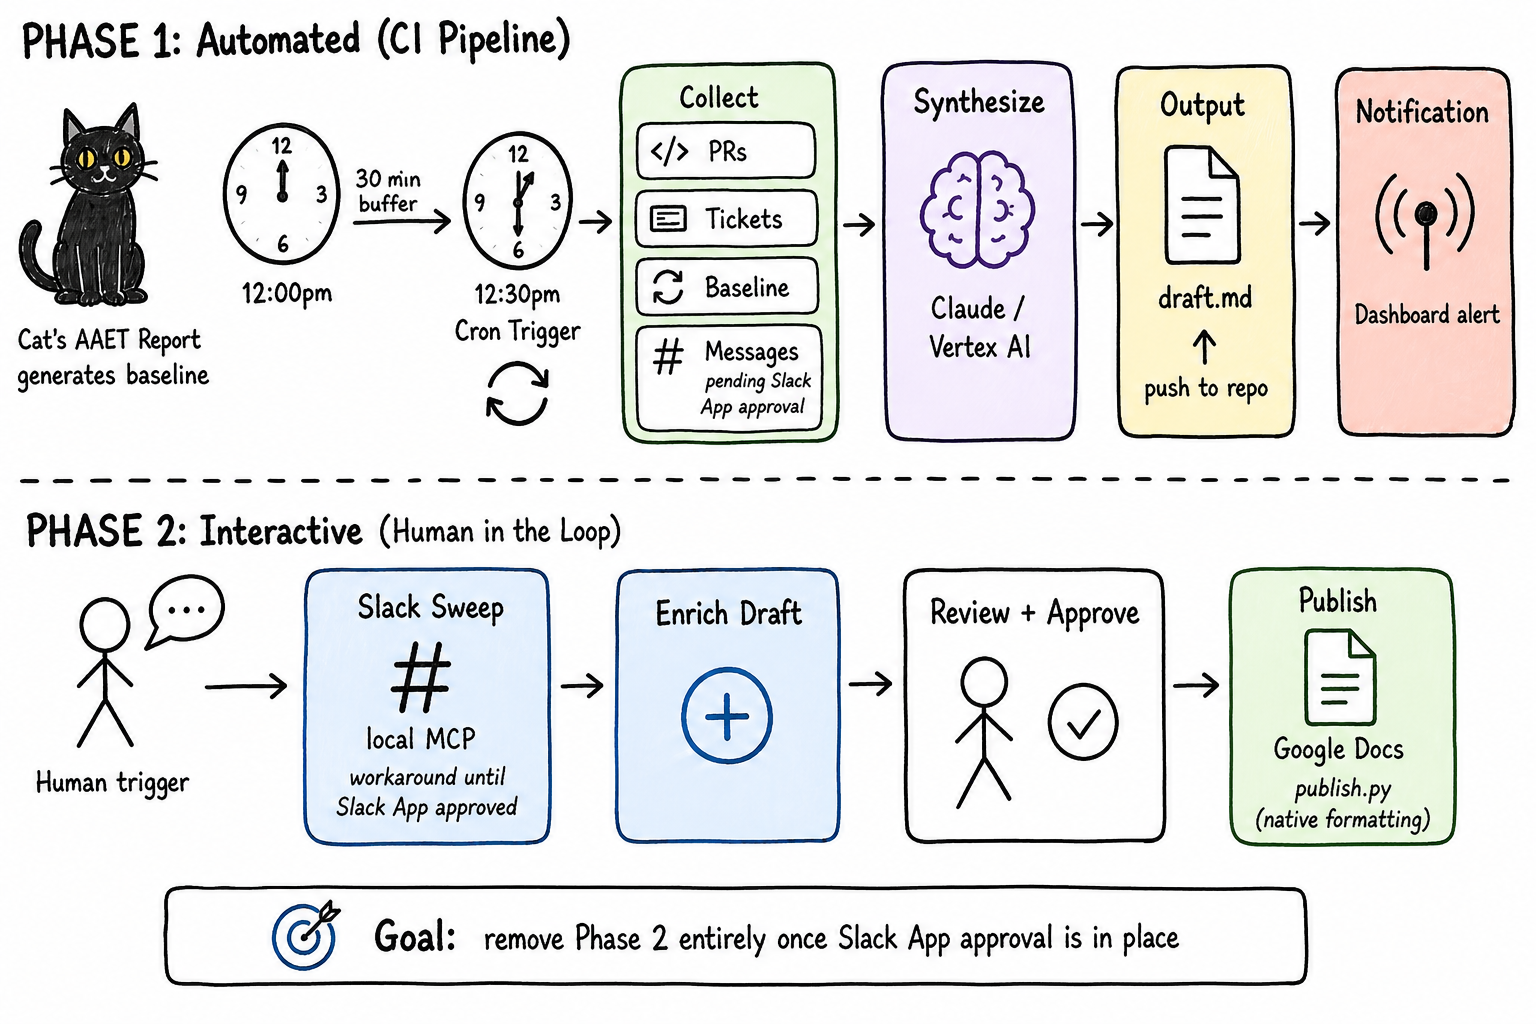
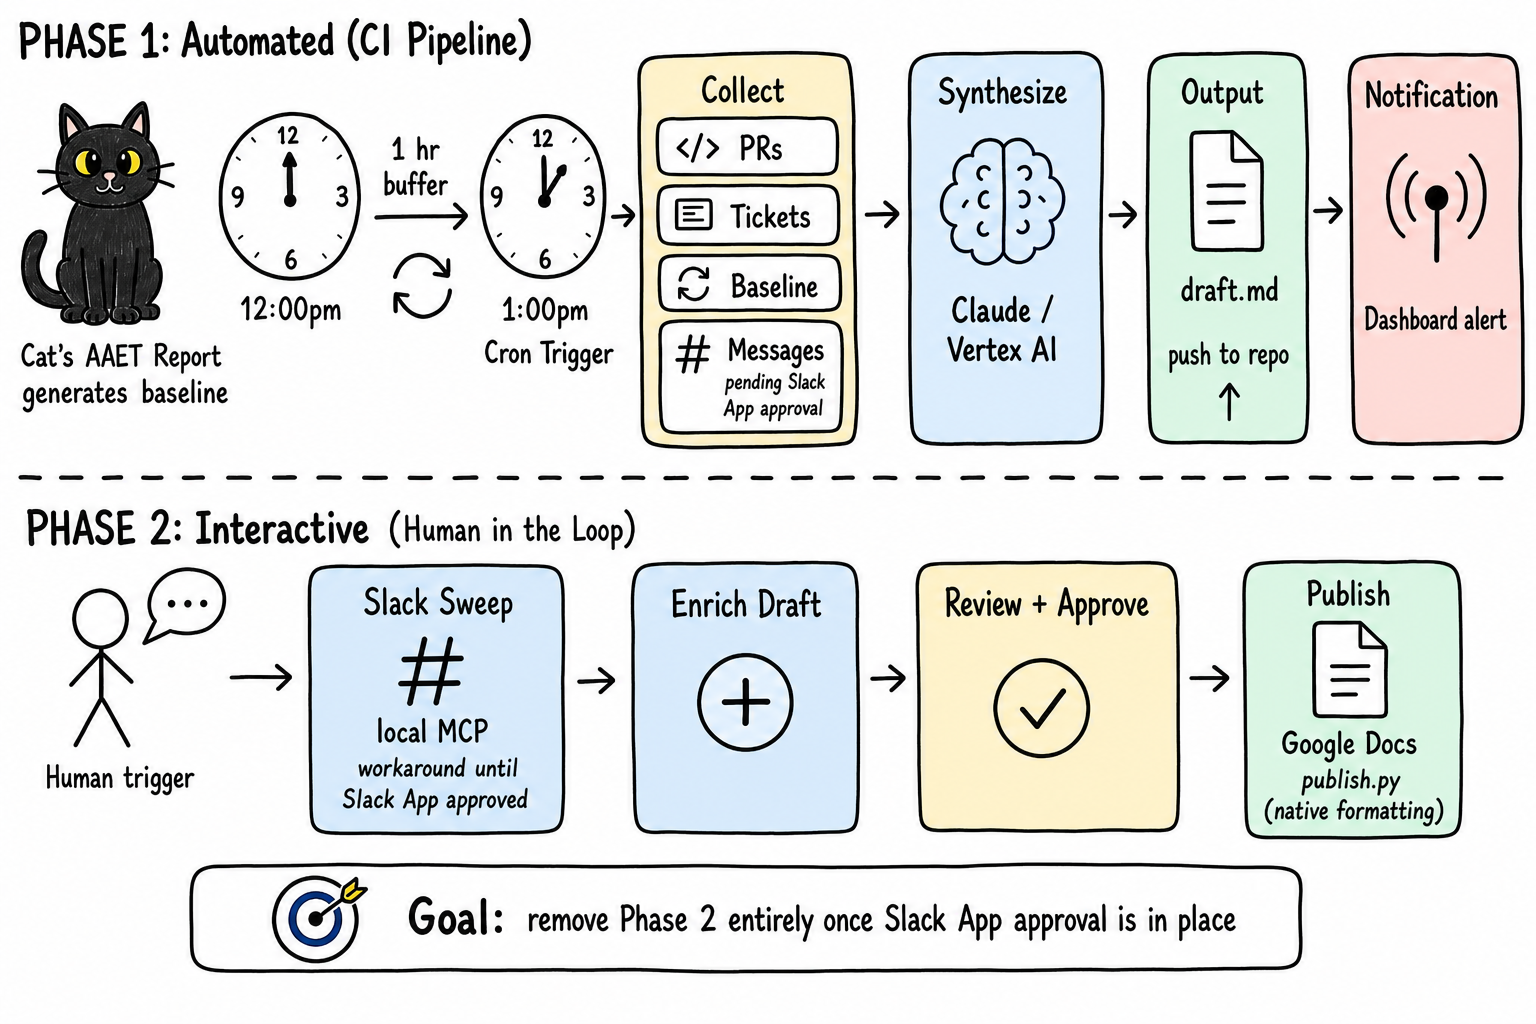
chore: shift cron trigger from 12:30pm to 1:00pm ET
The team channel notification doesn't go out until 12:30pm, so the
pipeline was racing the notification. 1hr buffer after Cat's noon
report gives a safer margin. Updated workflow cron, README text, and
regenerated the flow diagram.

diff --git a/memory.md b/memory.md
@@ -1,3 +1,30 @@
+# Weekly Pulse - Project Memory
+
+## Pipeline Architecture (READ FIRST)
+
+Human-in-the-loop pipeline with two phases in different environments:
+
+**Phase 1 - Generate (GitHub Actions, automated):**
+GH Action (Thursday cron or manual) collects Jira + GitHub + baseline
+report, synthesizes via LLM, saves draft to `output/YYYY-MM-DD/draft.md`,
+commits and uploads artifact. CI NEVER collects Slack and NEVER publishes.
+The `--skip-slack` flag is always passed.
+
+**Phase 2 - Enrich + Publish (Cursor/Argus, interactive):**
+User says "review the pulse" which triggers the `weekly-pulse-review`
+skill. Skill sweeps Slack via MCP, enriches the draft, presents for
+user approval, then publishes to Google Doc via GWS MCP.
+
+**Critical rules:**
+
+- Target Google Doc is ALWAYS discovered dynamically from the Drive
+  reports folder (`1Nfir4VgHzPSUGZBJHFRM0GPYj8k5VeHu`). Never
+  hardcode a doc ID.
+- Slack data comes from Cursor's Slack MCP, not from CI.
+- Nothing publishes without user approval.
+
+---
+
 ## 2026-06-12
 
 ### Resume
@@ -27,7 +54,7 @@ Three gaps for full automation:
 
 ### Resume
 
-CI pipeline runs green. Cron at 12:30pm ET (after Cat's noon report).
+CI pipeline runs green. Cron at 1:00pm ET (after Cat's noon report).
 4 of 5 secrets set. Dashboard notification system pulsing when draft ready.
 Output organized into date folders.
 
@@ -100,3 +127,71 @@ output looks like. `prompt.md` tuning needed.
 4. Update the README/architecture to reflect the live doc is
    `18FVFNqzjKuMUyCQXnpzWZnVKMKIlGvYLN8Tvjfd9Vvw` (DO NOT WRITE TO IT
    without explicit approval)
+
+---
+
+## 2026-06-14 - Multi-Section Routing + Native Formatting
+
+### Resume
+
+Publish pipeline rewritten. Multi-section routing, native Google Docs
+formatting, Drive folder discovery, UTF-16 link math, LLM sentiment
+emoji. All pushed to remote.
+
+### Done
+
+- Multi-section synthesis: DATA_PROCESSING, RISKS, CUSTOMERS, ASSOCIATES
+- Drive folder discovery (folder ID: 1Nfir4VgHzPSUGZBJHFRM0GPYj8k5VeHu,
+  shared drive support)
+- Native bullets (createParagraphBullets), inline hyperlinks, bold removal
+- UTF-16 offset math for emoji + link positioning
+- LLM-based sentiment emoji for Associates
+- CI cron skips publish; interactive-only via review skill
+- prompt.md tuned with quality examples and anti-patterns
+- Test doc: "Weekly Pulse - TEST" (1BLo26JCsoZSUta_KoP_BSkXZvGYyW0iO_EcJTFGkwgY)
+
+### Left Off
+
+Code pushed. Need to trigger the GitHub Action (workflow_dispatch) to
+test the full generate + publish pipeline e2e. The local generate run
+failed because the local environment doesn't have Cat's repo access
+(CI secrets handle this). Next step: run the GH Action, then publish
+its output to the test doc.
+
+### Next Session
+
+1. Trigger GH Action via workflow_dispatch
+2. Pull the new draft and publish to test doc
+3. Validate multi-section routing and formatting quality
+4. If good, Thursday flow is ready
+
+---
+
+## 2026-06-14 (session 2) - Pipeline Validated E2E
+
+### Resume
+
+Pipeline fully validated. Every layer of silent failure found and fixed.
+
+### Done
+
+- LLM was 403ing every run (wrong SA key). Fixed with fresh
+  `dp-ai-usage` key. Model updated to `claude-sonnet-4-6`.
+- Template regex matched wrong code block. Prompt never reached LLM.
+  Fixed regex to anchor on `## User Prompt Template`.
+- Silent fallback removed. Pipeline fails red when LLM is unreachable.
+- GH Action stripped to generate-only. No publish, no Slack.
+- Stale doc ID (`1jMyzuYlkKyl...`) removed everywhere.
+- Skill updated: uses `publish.py` locally (not MCP) for native links.
+- Dashboard notification says "produce the report" not "review."
+- Boilerplate "in progress" and "feature watch" removed from draft.
+
+### Left Off
+
+Pipeline working e2e against test doc. Three sections routed
+(DATA_PROCESSING, RISKS, ASSOCIATES) with inline Jira hyperlinks.
+Minor: publish.py can't match "Risks / Issues" heading (space issue).
+
+### Next Session
+
+Fix "Risks / Issues" heading match. Thursday: real run.

diff --git a/README.md b/README.md
@@ -3,8 +3,8 @@
 Generates Data Processing team highlights for the **AAET Weekly Pulse Check**.
 
 A two-phase system: CI generates a draft autonomously every Thursday, then
-an interactive review step handles Slack enrichment and Google Docs publishing
-with a human in the loop.
+an interactive review step handles Slack enrichment and publishing with a
+human in the loop.
 
 The remaining blocker for full autonomy is Slack App approval (for CI-based
 message collection).
@@ -13,9 +13,9 @@ message collection).
 
 ![Weekly Pulse flow](weekly-pulse-flow.png)
 
-**Phase 1 - Automated (CI Pipeline, every Thursday 12:30pm ET):**
+**Phase 1 - Automated (CI Pipeline, every Thursday 1:00pm ET):**
 
-1. **Cron trigger** - GitHub Actions fires 30min after Cat's baseline AAET report
+1. **Cron trigger** - GitHub Actions fires 1hr after Cat's baseline AAET report
 2. **Collect** - pulls from GitHub PRs/reviews, Jira tickets, and the baseline
    report. Slack message collection requires a Slack App with `search:read`
    scope, which is pending internal approval. Skipped gracefully without it.
@@ -69,8 +69,8 @@ python generate.py --days-back 7
 
 ## Automated schedule
 
-GitHub Actions runs every Thursday at 12:30pm ET (after Cat's AAET baseline
-report generates at noon). Draft is ready for review by ~12:35pm. You can
+GitHub Actions runs every Thursday at 1:00pm ET (after Cat's AAET baseline
+report generates at noon). Draft is ready for review by ~1:05pm. You can
 also trigger the CI manually from the Actions tab.
 
 ## Configuration